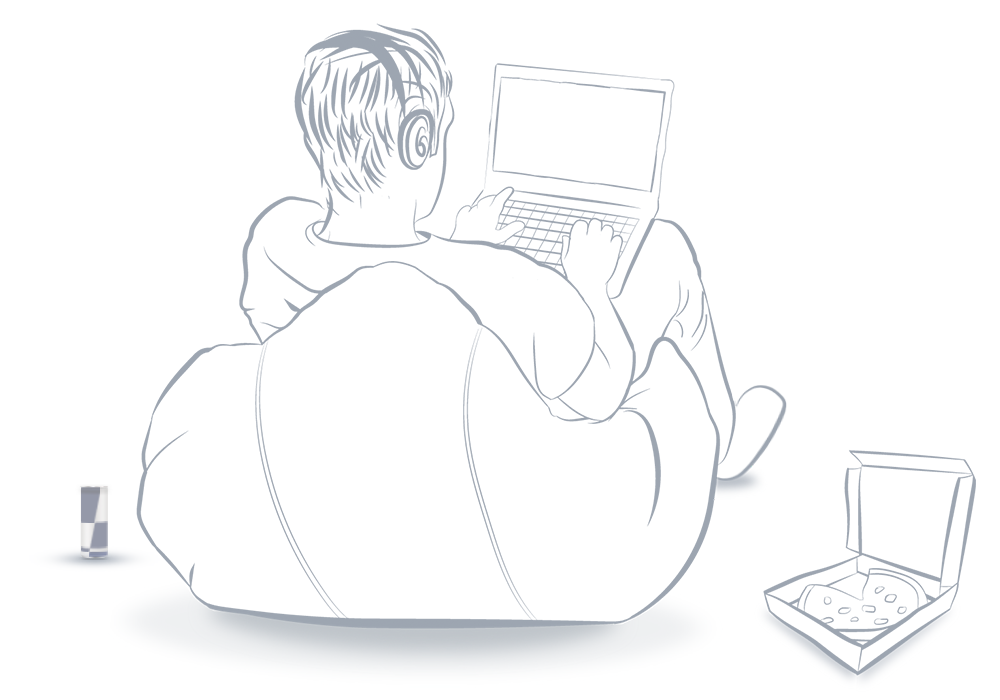
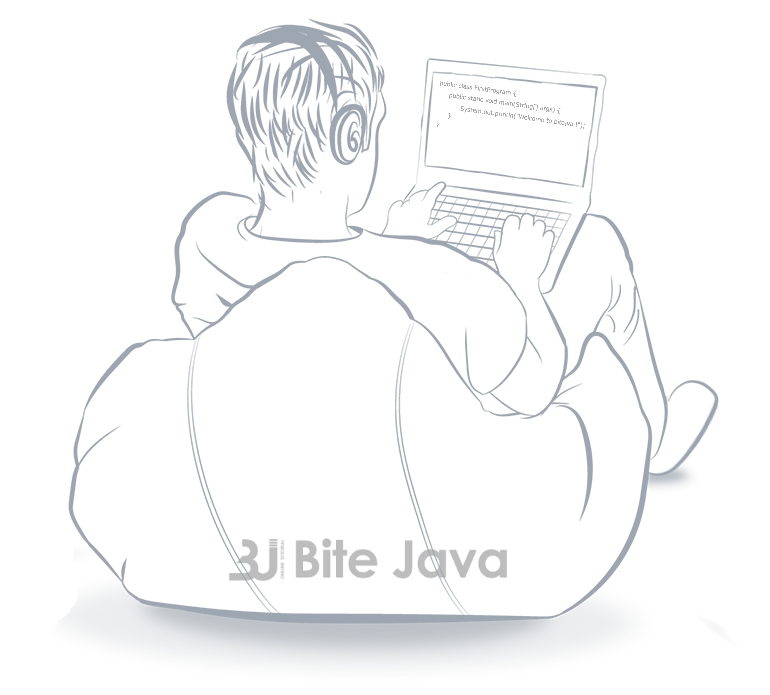
Added google adsense, changes in design

diff --git a/src/main/webapp/WEB-INF/view/jsp/theme/js/subject_js.js b/src/main/webapp/WEB-INF/view/jsp/theme/js/subject_js.js
@@ -112,7 +112,6 @@ jQuery(document).ready(function() {
 
 function getSubjectList(pn)
 {
-//	alert("get List")
 	$.ajax({
 		type : "GET",
 		url : "getSubjectList",
@@ -125,6 +124,7 @@ function getSubjectList(pn)
 	        alert(xhr.status);
 	      }
 	}) ; 
+	$('.bodyCoverWait').hide();
 }
 
 

diff --git a/src/main/java/com/bharti/constraints/ProjectConfig.java b/src/main/java/com/bharti/constraints/ProjectConfig.java
@@ -5,13 +5,13 @@ public class ProjectConfig
 	public static final String UPLOAD_FOLDER = "/bj_uploads";
 	
 	
-//	public static final String UPLOAD_PATH = "/opt/bitejava"+UPLOAD_FOLDER;
-	public static final String UPLOAD_PATH = "E:/amar/bitejava"+UPLOAD_FOLDER;
+	public static final String UPLOAD_PATH = "/opt/bitejava"+UPLOAD_FOLDER;
+//	public static final String UPLOAD_PATH = "E:/amar/bitejava"+UPLOAD_FOLDER;
 	
 	
-	
-//	public static final String SITE_URL = "http://bitejava.com";
-	public static final String SITE_URL = "http://localhost:7070/bitejava";
+//	
+	public static final String SITE_URL = "http://bitejava.com";
+//	public static final String SITE_URL = "http://localhost:7070/bitejava";
 	
 	
 }

diff --git a/src/main/java/com/bharti/domain/Question.java b/src/main/java/com/bharti/domain/Question.java
@@ -128,7 +128,7 @@ public class Question
 		this.image = image;
 	}
 
-	@ManyToMany(cascade = {CascadeType.ALL}, fetch = FetchType.LAZY)
+	@ManyToMany(cascade = {CascadeType.ALL}, fetch = FetchType.EAGER)
     @JoinTable(name="tag_question", 
                 joinColumns={@JoinColumn(name="qid")}, 
                 inverseJoinColumns={@JoinColumn(name="tid")})
@@ -140,7 +140,7 @@ public class Question
 		this.tags = tags;
 	}
 
-	@OneToMany(mappedBy="question", cascade=CascadeType.ALL, fetch=FetchType.LAZY)  
+	@OneToMany(mappedBy="question", cascade=CascadeType.ALL, fetch=FetchType.EAGER)  
 	public Set<Answers> getAnswers() {
 		return answers;
 	}

diff --git a/src/main/java/com/bharti/dao/QuestionDaoImpl.java b/src/main/java/com/bharti/dao/QuestionDaoImpl.java
@@ -46,8 +46,10 @@ public class QuestionDaoImpl implements QuestionDao{
 		
 		List<Question> list = this.sessionFactory.getCurrentSession().createCriteria(Question.class)
 				.add(Restrictions.eq("qid", qid))
-				.setFetchMode("tags", FetchMode.JOIN)
-				.setFetchMode("answers", FetchMode.JOIN)
+//				.setFetchMode("tags", FetchMode.JOIN)
+//				.setFetchMode("answers", FetchMode.JOIN)
+//				.addOrder(Order.asc("qid"))
+				
 				.list();
 		if (!list.isEmpty()) {
 			return list.get(0);

diff --git a/src/main/java/com/bharti/controller/SubjectController.java b/src/main/java/com/bharti/controller/SubjectController.java
@@ -78,7 +78,8 @@ public class SubjectController
 				boolean notfind = true;
 				if(kn.getLoginInfo() != null) {
 					Registration reg = this.registrationService.getRegistrationByUserid(kn.getLoginInfo().getUserid());
-					kn.getLoginInfo().setRegistration(reg);
+					
+					map.addAttribute("author", reg);
 				}
 				
 				if(kn.getParent_keynote() != null) {

diff --git a/src/main/java/com/bharti/controller/QuestionController.java b/src/main/java/com/bharti/controller/QuestionController.java
@@ -98,7 +98,7 @@ public class QuestionController
 		{
 			e.printStackTrace();
 		}
-		return "redirect:error";
+		return "redirect:/error";
 	}
 	@RequestMapping(value = "/questions/tagged/{tag}", method = RequestMethod.GET)
 	public String taggedQuestions(@PathVariable("tag") String tagString,ModelMap map, HttpServletRequest request, Principal principal)
